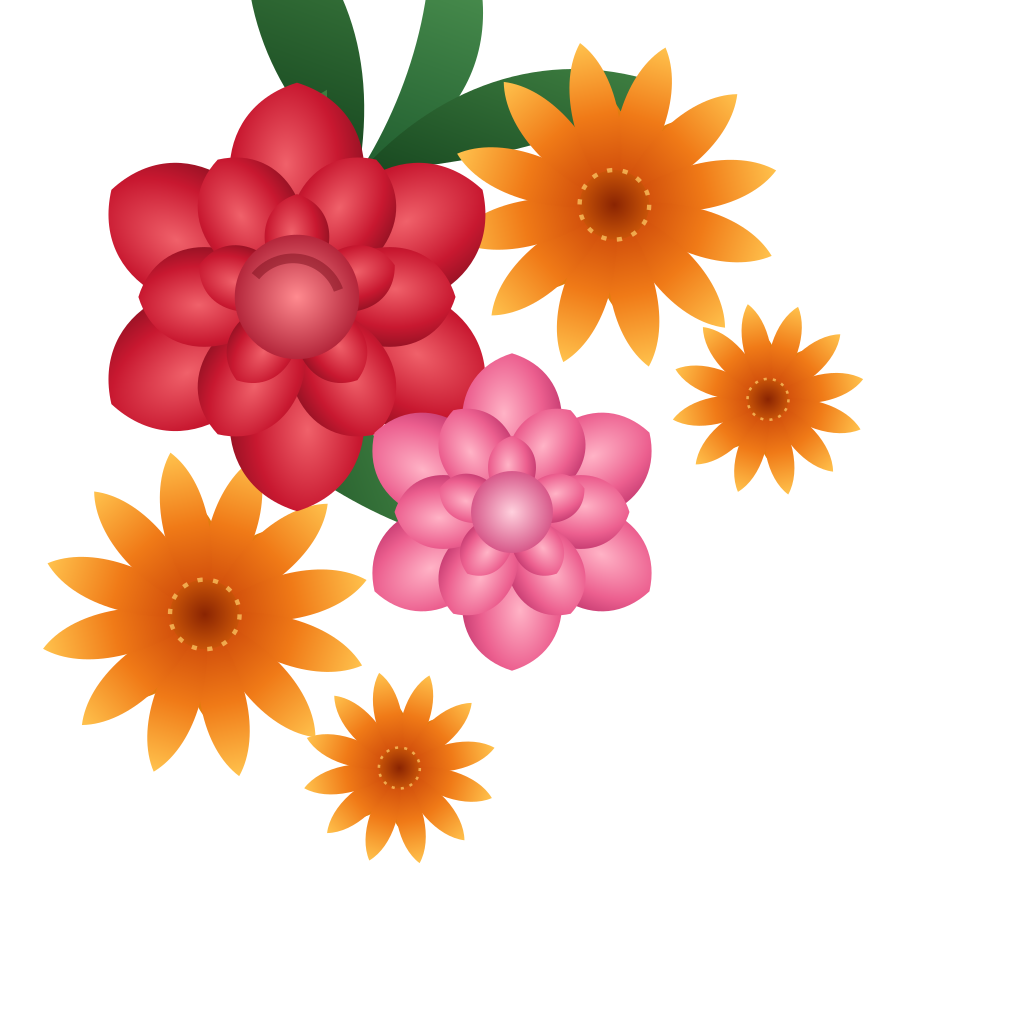
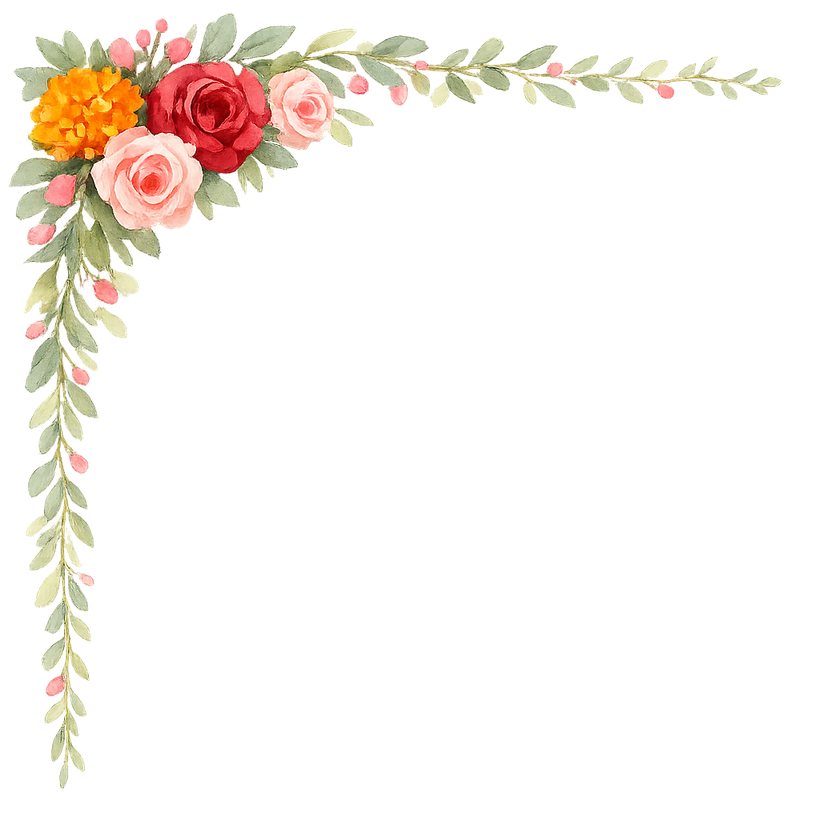
Real watercolor corners (4-way frame) + realistic floral wax seal
- Swap hand-drawn SVG corners for AI watercolor corner (marigold/rose/eucalyptus), flipped 4x into a continuous floral frame; enlarge to 42vw/360px
- Replace SVG wax seal with realistic floral wax seal PNG; hardened alpha to remove shadow halo, cropped, compressed
- Tie name/date size to viewport height (min(...,10vh/4.6vh)) so short landscape screens don't scroll; trim stage padding
- Regenerate OG share card with watercolor frame; downscale+optimize PNGs (corner 1.6MB->324KB, seal 1.6MB->749KB); drop unused corner-floral.svg
- Verified no scroll at 1280x720/375x812/360x640, text legible, envelope opens, no console errors

diff --git a/index.html b/index.html
@@ -32,7 +32,7 @@
   }
 
   /* ---------- the invitation ---------- */
-  .stage{min-height:100dvh; display:grid; place-items:center; padding:clamp(1.25rem,4vh,3rem) 1.5rem; text-align:center;
+  .stage{min-height:100dvh; display:grid; place-items:center; padding:clamp(1rem,3vh,2.5rem) 1.5rem; text-align:center;
     opacity:0; transform:scale(.97); transition:opacity 1s ease .4s, transform 1.1s ease .4s;}
   body.open .stage{opacity:1; transform:none}
   .card{width:100%; max-width:34rem; position:relative; z-index:3; padding:1rem}
@@ -40,10 +40,10 @@
   .divider{display:block; width:140px; height:auto; margin:.1rem auto .9rem; opacity:.92}
   .eyebrow{font-size:clamp(1.1rem,3.6vw,1.5rem); letter-spacing:.18em; text-transform:uppercase; font-weight:500; line-height:1.5}
   .names{font-family:"Great Vibes",cursive; font-weight:400; line-height:1.22; overflow:visible;
-    font-size:clamp(3.25rem,13vw,6rem); margin:.1rem 0 0; padding:.06em .3em 0;
+    font-size:min(clamp(3.25rem,13vw,6rem),10vh); margin:.1rem 0 0; padding:.06em .3em 0;
     background:linear-gradient(92deg,var(--rose1),var(--rose2)); -webkit-background-clip:text; background-clip:text; color:transparent;}
   .amp{font-style:italic; font-size:clamp(1.4rem,4vw,1.9rem); color:var(--mauve)}
-  .date{font-size:clamp(1.5rem,5vw,2.15rem); color:var(--mauve); line-height:1.4; font-weight:500; margin-top:.3rem}
+  .date{font-size:min(clamp(1.5rem,5vw,2.15rem),4.6vh); color:var(--mauve); line-height:1.35; font-weight:500; margin-top:.3rem}
   .date span{display:block}
   .foot{margin-top:1rem; font-size:.95rem; letter-spacing:.22em; text-transform:uppercase; opacity:.9}
   .actions{display:flex; flex-wrap:wrap; gap:.9rem; justify-content:center; margin-top:1.4rem}
@@ -56,7 +56,7 @@
   .cta.primary:hover{background:#9d2c60; border-color:#9d2c60}
 
   /* ---------- floral corner frame (marigolds & roses, hand-shaded SVG) ---------- */
-  .corner{position:fixed; width:min(30vw,210px); height:auto; z-index:1; pointer-events:none;
+  .corner{position:fixed; width:min(42vw,320px); height:auto; z-index:1; pointer-events:none;
     opacity:0; transition:opacity 1.1s ease .55s; filter:drop-shadow(0 3px 6px rgba(120,30,50,.22));}
   body.open .corner{opacity:.96}
   .corner.tl{top:0; left:0}
@@ -90,14 +90,14 @@
   .cover.open .hint{opacity:0;}
   @keyframes pulse{0%,100%{opacity:.45}50%{opacity:.95}}
   /* wider florals on large screens to fill the empty margins */
-  @media (min-width:1100px){ .corner{width:250px} }
+  @media (min-width:1100px){ .corner{width:360px} }
   /* mobile: tighten tracking & stack CTAs so nothing overflows */
   @media (max-width:480px){
     .eyebrow{letter-spacing:.1em}
     .foot{letter-spacing:.14em}
     .cta{letter-spacing:.1em; width:100%; text-align:center}
     .actions{gap:.7rem}
-    .corner{width:34vw}
+    .corner{width:46vw}
   }
   @media (prefers-reduced-motion:reduce){ .cover,.stage,.corner,.flap,.seal{transition:opacity .3s;} }
 </style>
@@ -149,27 +149,7 @@
     <div class="layer env-pocket"></div>
     <div class="env-names">Ridhiman &amp; Vijit</div>
     <div class="layer flap"></div>
-    <svg class="seal" viewBox="0 0 200 200" aria-hidden="true">
-      <defs>
-        <radialGradient id="wax" cx=".4" cy=".35" r=".75">
-          <stop offset="0" stop-color="#e04a76"/><stop offset=".5" stop-color="#b3245f"/><stop offset="1" stop-color="#7d0f1e"/>
-        </radialGradient>
-      </defs>
-      <!-- pressed wax blob with soft irregular edge -->
-      <path fill="url(#wax)" d="M100 12
-        C126 12 138 2 156 18 C172 32 168 48 180 64 C190 78 200 92 194 112
-        C188 132 196 148 178 162 C162 174 150 190 128 190 C108 190 92 200 72 190
-        C52 180 36 186 24 166 C14 150 2 140 8 118 C14 98 4 82 20 66
-        C34 52 32 32 54 22 C72 14 78 12 100 12 Z"/>
-      <ellipse cx="76" cy="62" rx="46" ry="34" fill="#ffffff" opacity=".14"/>
-      <circle cx="100" cy="100" r="74" fill="none" stroke="#5e0a14" stroke-width="2.4" opacity=".55"/>
-      <circle cx="100" cy="100" r="74" fill="none" stroke="#f4a9be" stroke-width="1" stroke-dasharray="1.5 5" opacity=".6"/>
-      <!-- embossed R&V monogram -->
-      <g font-family="'Great Vibes',cursive" font-size="48" text-anchor="middle">
-        <text x="101" y="117" fill="#f4a9be" opacity=".55">R&amp;V</text>
-        <text x="100" y="116" fill="#5e0a14">R&amp;V</text>
-      </g>
-    </svg>
+    <img class="seal" src="assets/seal.png" alt="" aria-hidden="true">
     <p class="hint">Tap to open</p>
   </div>
 
